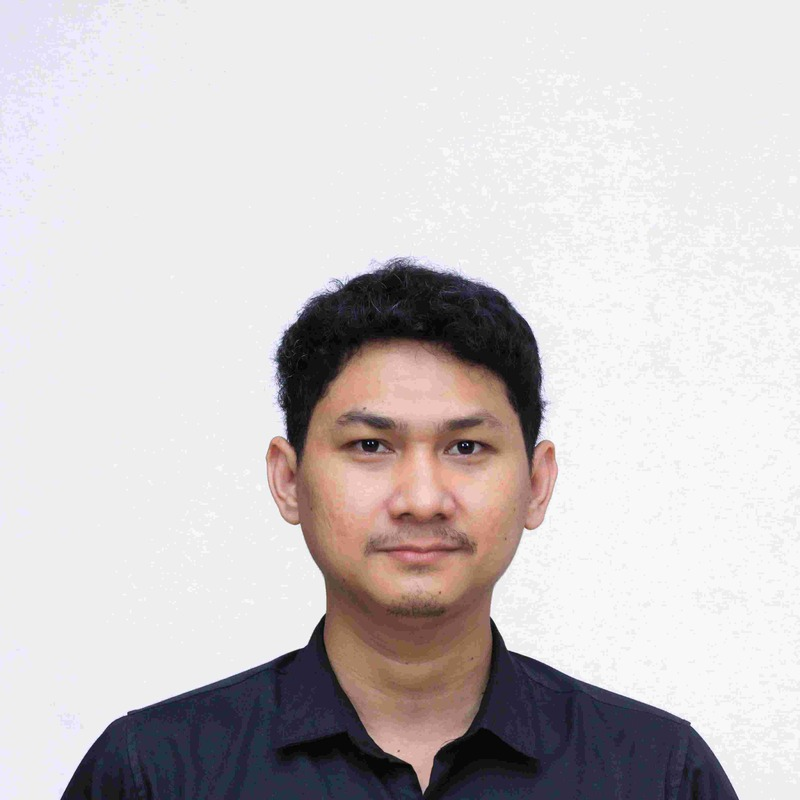
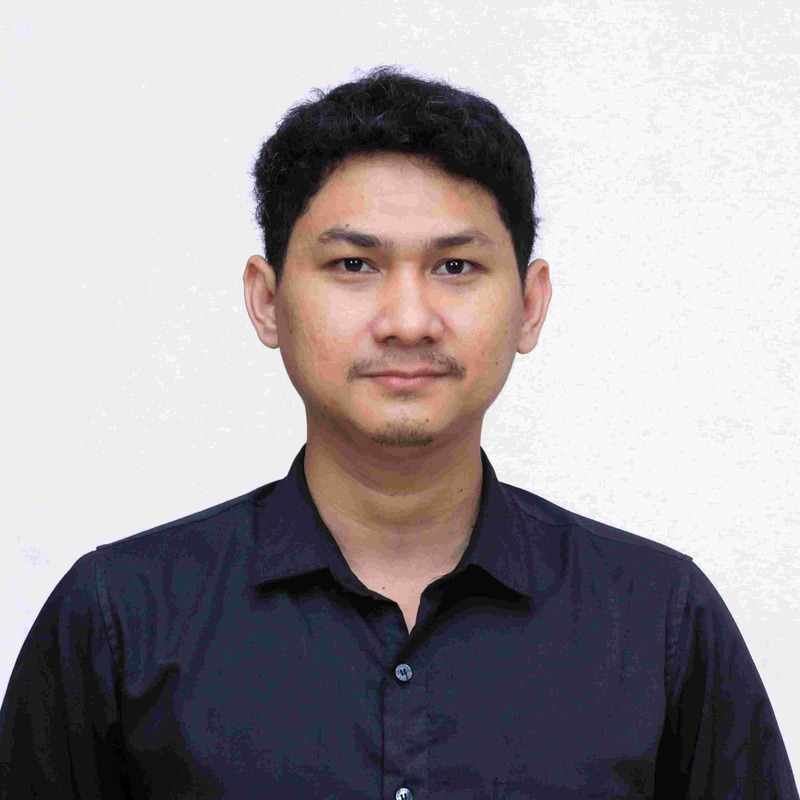
feat(nav): integrasi CTA SPMB ke /pmb/, hapus penomoran dua digit di beranda & profil, dan kalibrasi simetri foto Aziz & Dody

diff --git a/tasks/todo.md b/tasks/todo.md
@@ -33,7 +33,7 @@
   - Pengelola MBKM: Elika Thea Kirana, S.T., M.Kom.
   - Gugus Kendali Mutu: Nurahman, S.Kom., M.M., M.Kom.
   - Koordinator Kemahasiswaan & Alumni: Abdul Aziz, S.Pd., M.Pd.
-  - Kepala Laboratorium: Agung Purwanto, S.Kom., M.Kom.
+  - Kepala Laboratorium: Dody Erlangga, S.Kom. (diperbarui di Fase 15).
   - Koordinator Sarana & Prasarana: Prio Jaka Arsyad, S.Kom.
 - [x] 14.4 Integrasi Halaman Pengabdian kepada Masyarakat (PkM):
   - Buat halaman `src/pages/riset/pengabdian/index.astro` dan `src/pages/en/research/community-service/index.astro`.
@@ -42,3 +42,29 @@
 - [x] 14.5 Rebranding Frasa Nama Prodi:
   - Ubah seluruh frasa "S1 Sistem Informasi" menjadi "Sistem Informasi" saja (Header, Drawer, Footer, BaseLayout, judul halaman, dan metadata).
 - [x] 14.6 Kompilasi SSG (`npm run build`), verifikasi visual via browser CDP, dan commit git lokal: `[main 8c9570b]`.
+
+---
+
+### Fase 15: Pembaruan Kepala Lab (Dody), Integrasi Logo Diktisaintek & Favicon Tab SisfoUNDA
+- [x] 15.1 Penetapan Kepala Laboratorium menjadi Dody Erlangga, S.Kom. pada struktur organisasi (`profil/index.astro` dan `en/about/index.astro`).
+- [x] 15.2 Integrasi logo resmi DIKTISAINTEK BERDAMPAK (`logo-diktisaintek.png`) di seksi Akreditasi dan Footer institusi.
+- [x] 15.3 Penggantian ikon tab browser (*favicon*) dengan logo resmi SisfoUNDA:
+  - Dihasilkan berkas multi-resolusi: `favicon.ico`, `favicon-16x16.png`, `favicon-32x32.png`, `favicon-48x48.png`, `favicon-64x64.png`, `favicon-192x192.png`, `favicon-512x512.png`, `apple-touch-icon.png` (180x180), dan `favicon.svg`.
+  - Dihubungkan lengkap di `src/layouts/BaseLayout.astro`.
+- [x] 15.4 Kompilasi SSG (`npm run build` lulus 100%, 0 error), verifikasi via browser CDP, dan commit git lokal: `[main b1de0f1]`.
+
+---
+
+### Fase 16: Eksekusi Opsi 1 (CTA SPMB ke /pmb/), Audit Orphan Pages, Eliminasi Penomoran Dua Digit & Kalibrasi Foto Aziz/Dody
+- [ ] 16.1 Eksekusi Opsi 1 (Integrasi Halaman PMB):
+  - Hubungkan tombol utama Header `DAFTAR SPMB →` (Desktop & Mobile Drawer) langsung ke `/pmb/` (ID) dan `/en/admissions/` (EN).
+  - Hubungkan tautan SPMB di Footer ke `/pmb/` dan `/en/admissions/`.
+- [ ] 16.2 Hasil Audit Orphan Pages:
+  - Terverifikasi 100% dari 33 berkas rute halaman di `src/pages/` telah terhubung ke navigasi global dan footer (zero orphan pages).
+- [ ] 16.3 Eliminasi Penomoran Dua Digit:
+  - Hapus `01`, `02`, `03`, `04` dari kartu 4 Pilar Akademik di Beranda (`AcademicPillars.astro`).
+  - Hapus `01`, `02`, `03`, `04` dari sticky sub-navigasi dan judul bab seksi di Halaman Profil (`profil/index.astro` dan `en/about/index.astro`).
+- [ ] 16.4 Kalibrasi Foto Pak Aziz & Kak Dody:
+  - `aziz.jpg`: geser x1=95 (Pak Aziz bergeser ke kanan simetris di tengah bingkai).
+  - `dody.jpg`: potong headroom berlebih (mulai y=880) agar wajah Kak Dody naik proporsional sejajar dengan dosen lainnya.
+- [ ] 16.5 Kompilasi SSG (`npm run build`), verifikasi visual via browser CDP, dan commit git lokal.
